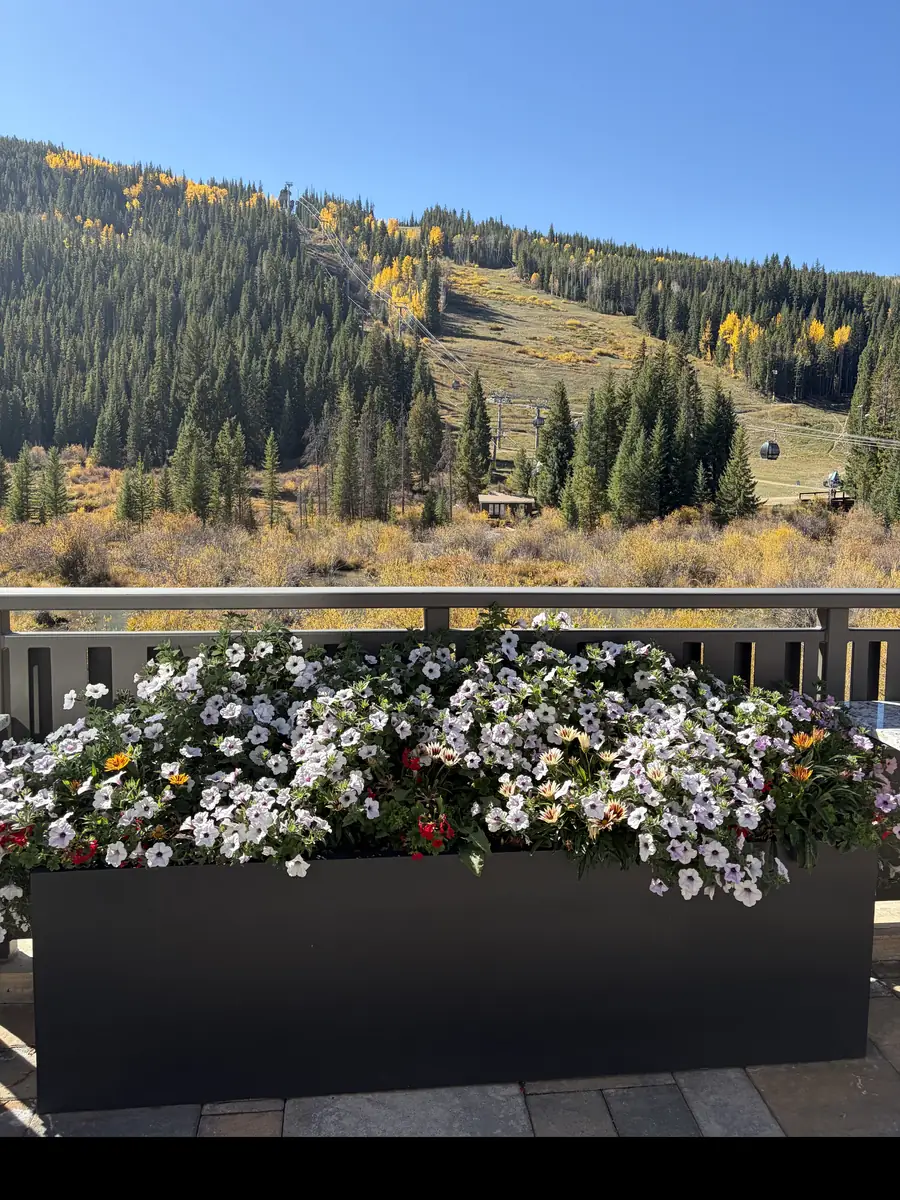
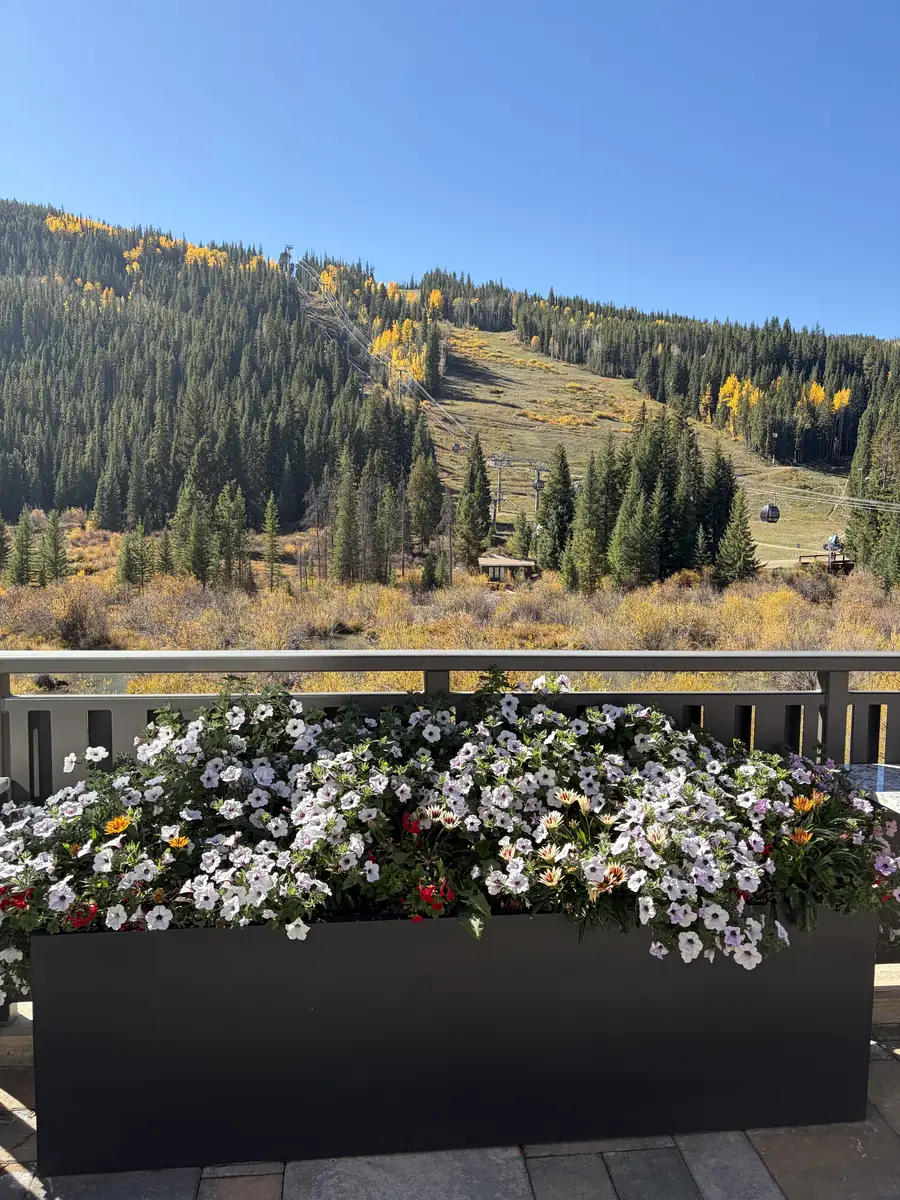
Home hero: show full mountain and planter, blended edge, readable at all widths
Claude-Session: https://claude.ai/code/session_01Y8VrC9MmaFrDPksZBxYwHn

diff --git a/public/styles.css b/public/styles.css
@@ -110,10 +110,18 @@ p { margin: 0 0 1em; }
 .hero {
   position: relative; overflow: hidden; color: #fff;
   background:
-    linear-gradient(90deg, rgba(31,42,28,.94) 0%, rgba(31,42,28,.82) 38%, rgba(31,42,28,.35) 70%, rgba(31,42,28,.15) 100%),
-    url("assets/hero-home.webp") center 85% / cover no-repeat,
+    url("assets/hero-home.webp") right center / auto 100% no-repeat,
     var(--forest-deep);
   padding: 96px 0 200px;
+}
+/* Tablet widths: the photo reaches behind the text, so darken its left side */
+@media (min-width: 641px) and (max-width: 1240px) {
+  .hero {
+    background:
+      linear-gradient(90deg, rgba(44,59,40,.95) 0%, rgba(44,59,40,.88) 45%, rgba(44,59,40,.4) 75%, rgba(44,59,40,0) 100%),
+      url("assets/hero-home.webp") right center / auto 100% no-repeat,
+      var(--forest-deep);
+  }
 }
 /* Only the white curve at the bottom of the hero is kept now that the hero is a real photo */
 .ridge .r1, .ridge .r2, .ridge .trees { display: none; }
@@ -396,7 +404,7 @@ main > [data-view]:not([data-view="home"]):not(#services) { min-height: calc(100
     padding: 64px 0 170px;
     background:
       linear-gradient(180deg, rgba(31,42,28,.82) 0%, rgba(31,42,28,.66) 55%, rgba(31,42,28,.4) 100%),
-      url("assets/hero-home-sm.webp") center 55% / cover no-repeat,
+      url("assets/hero-home-sm.webp") center 60% / cover no-repeat,
       var(--forest-deep);
   }
   .ridge { height: 160px; }

diff --git a/public/index.html b/public/index.html
@@ -17,7 +17,7 @@
   <link rel="preconnect" href="https://fonts.googleapis.com">
   <link rel="preconnect" href="https://fonts.gstatic.com" crossorigin>
   <link href="https://fonts.googleapis.com/css2?family=Marcellus&family=Montserrat:wght@400;500;600;700;800&display=swap" rel="stylesheet">
-  <link rel="stylesheet" href="styles.css?v=20261109n">
+  <link rel="stylesheet" href="styles.css?v=20261109r">
 
   <script type="application/ld+json">
   {
@@ -457,6 +457,6 @@
     <a class="mobile-call" href="tel:+19703334469">Call or Text (970) 333-4469</a>
   </aside>
 
-  <script src="main.js?v=20261109n"></script>
+  <script src="main.js?v=20261109r"></script>
 </body>
 </html>

diff --git a/public/thanks.html b/public/thanks.html
@@ -9,7 +9,7 @@
   <link rel="preconnect" href="https://fonts.googleapis.com">
   <link rel="preconnect" href="https://fonts.gstatic.com" crossorigin>
   <link href="https://fonts.googleapis.com/css2?family=Marcellus&family=Montserrat:wght@400;500;600;700;800&display=swap" rel="stylesheet">
-  <link rel="stylesheet" href="styles.css?v=20261109n">
+  <link rel="stylesheet" href="styles.css?v=20261109r">
   <style>
     .thanks { min-height: 100vh; display: grid; place-items: center; text-align: center; padding: 40px 16px; background: var(--snow); }
     .thanks-box { max-width: 520px; background: #fff; border-radius: 20px; padding: 48px 32px; box-shadow: var(--shadow); }
